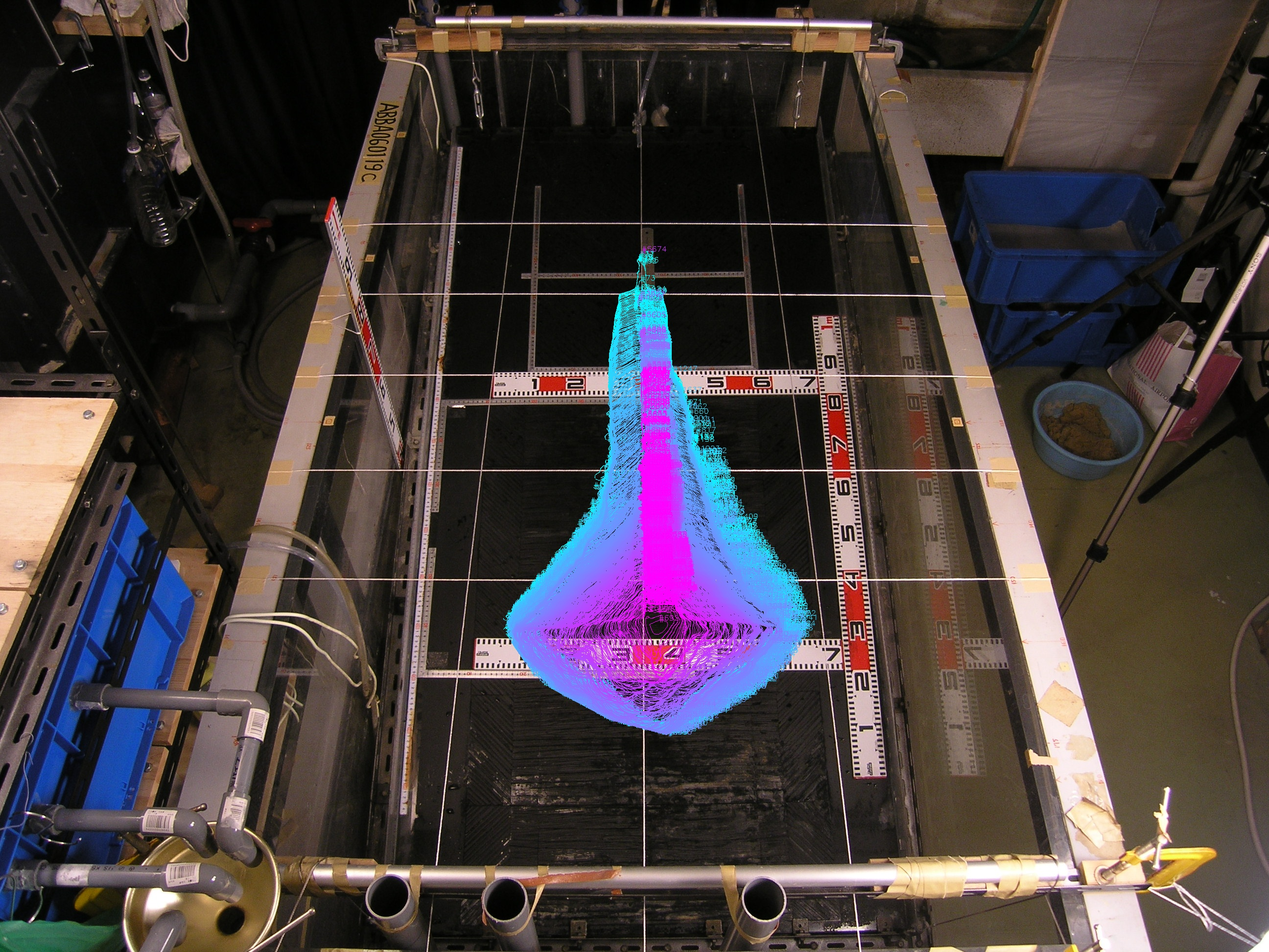
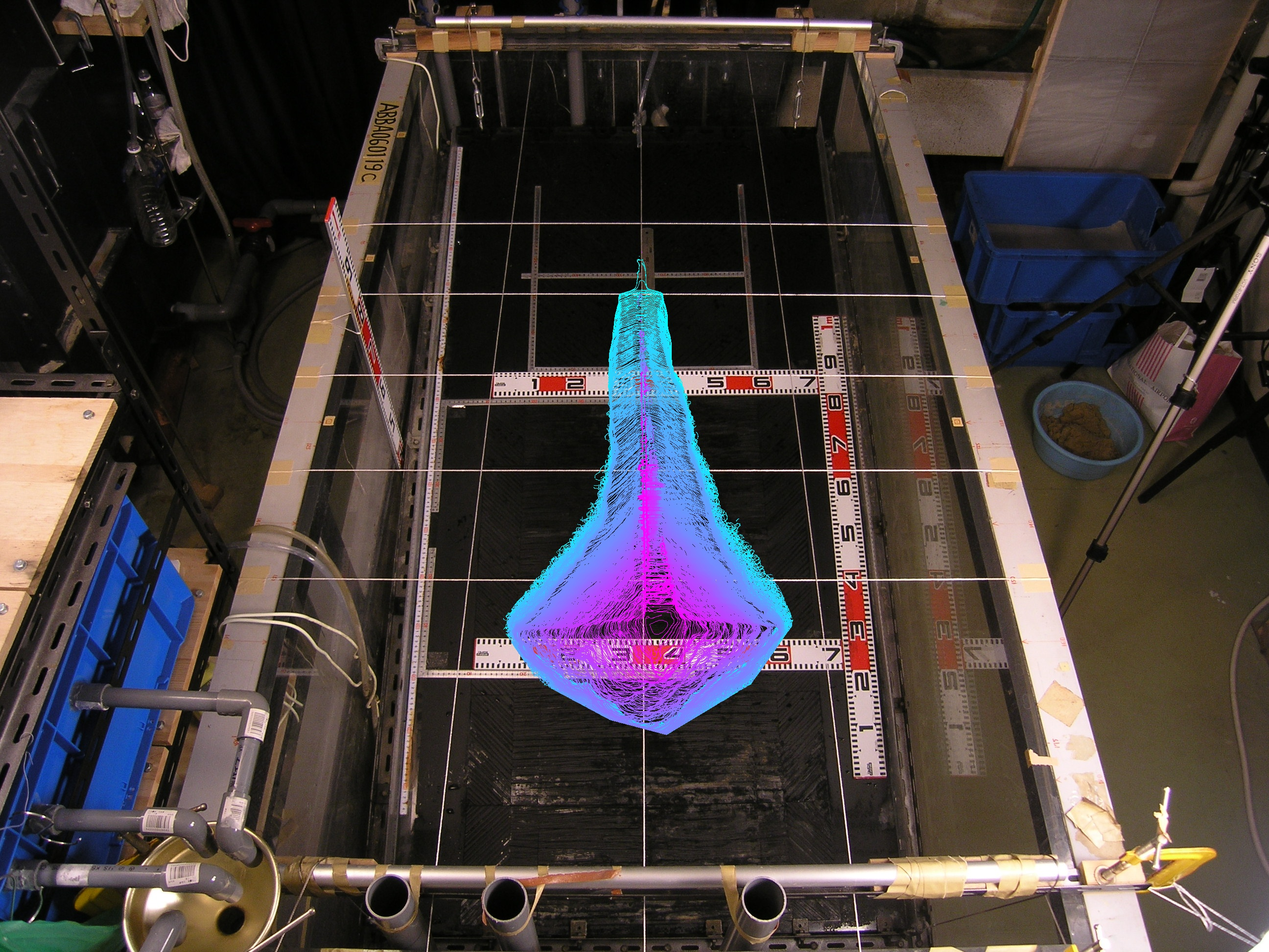
removed the label when plotting contours

Changed region(s): [[0.4062, 0.2469, 0.6562, 0.7716]]

diff --git a/src/load_contours.py b/src/load_contours.py
@@ -54,7 +54,7 @@ for file_name in os.listdir(data_folder):
 
         for i, c in enumerate(contours[::skipping_no]):
             cv2.drawContours(image, [c], -1, (255, 255-255/cnt_len * (i*skipping_no), 255/cnt_len * (i*skipping_no)), 1)
-            cv2.putText(image, f"#{i*skipping_no}", tuple(c[0][0]), cv2.FONT_HERSHEY_SIMPLEX, 0.5, (255, 255-255/cnt_len * (i*skipping_no), 255/cnt_len * (i*skipping_no)), 1)
+            # cv2.putText(image, f"#{i*skipping_no}", tuple(c[0][0]), cv2.FONT_HERSHEY_SIMPLEX, 0.5, (255, 255-255/cnt_len * (i*skipping_no), 255/cnt_len * (i*skipping_no)), 1)
 
         output_path = os.path.join(output_folder, f"{os.path.splitext(file_name)[0]}_contours.jpg")
         cv2.imshow("Contours", image)
